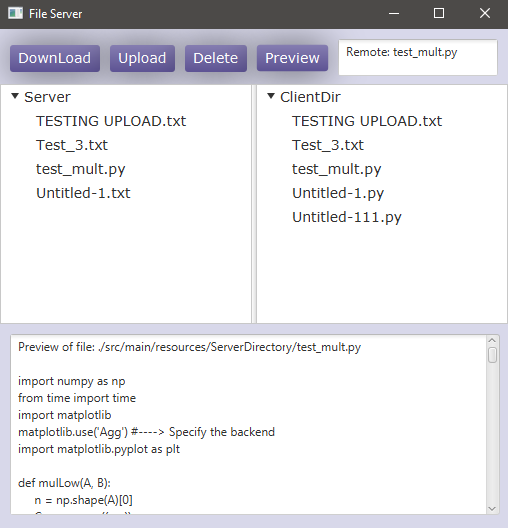
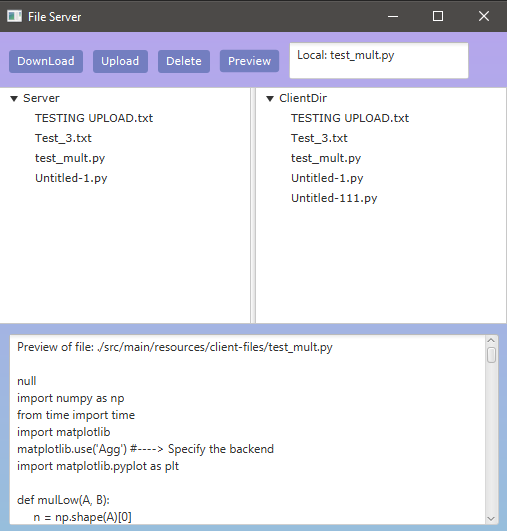
Fixed css button problem

Changed region(s): [[0.0, 0.0, 1.0, 0.4242], [0.0, 0.6061, 1.0, 1.0]]

diff --git a/src/main/resources/org/am/stylesheet.css b/src/main/resources/org/am/stylesheet.css
@@ -2,18 +2,17 @@
 .text{
     -fx-font-family: 'Verdana';
     -fx-text-fill: black;
-    -fx-font-size: 12px;
+    -fx-font-size: 11px;
     -fx-font-weight: normal;
 }
 
-.bg{
-    -fx-background-color: #D8D8EA;
+.root{
+    -fx-background-color: linear-gradient(#B5A6EC, #97BEDC);
 }
 
 .button{
+    -fx-background-color: #737EC0;
     -fx-font-weight: bold;
     -fx-text-fill: white;
-    -fx-background-color: linear-gradient(#857DB1, #5D5393);
-    -fx-effect: dropshadow(three-pass-box, rgba(0, 0, 0, 0.6), 50, 0.0, 0, 1);
 }
 

diff --git a/src/main/resources/ServerDirectory/Untitled-1.py b/src/main/resources/ServerDirectory/Untitled-1.py
@@ -27,4 +27,3 @@ for i in range(2, 101):
 for i in range(0,100):
      k,aprox,error,residual = iteration(1., float(a[i]), 100, 1e-13, 1e-14)
      print("a = " + str(a[i]) + " , iterations = " + str(k) +", approximation = " + str(aprox) + ", error = " + str(error) + ", residual = " + str(residual))
-
